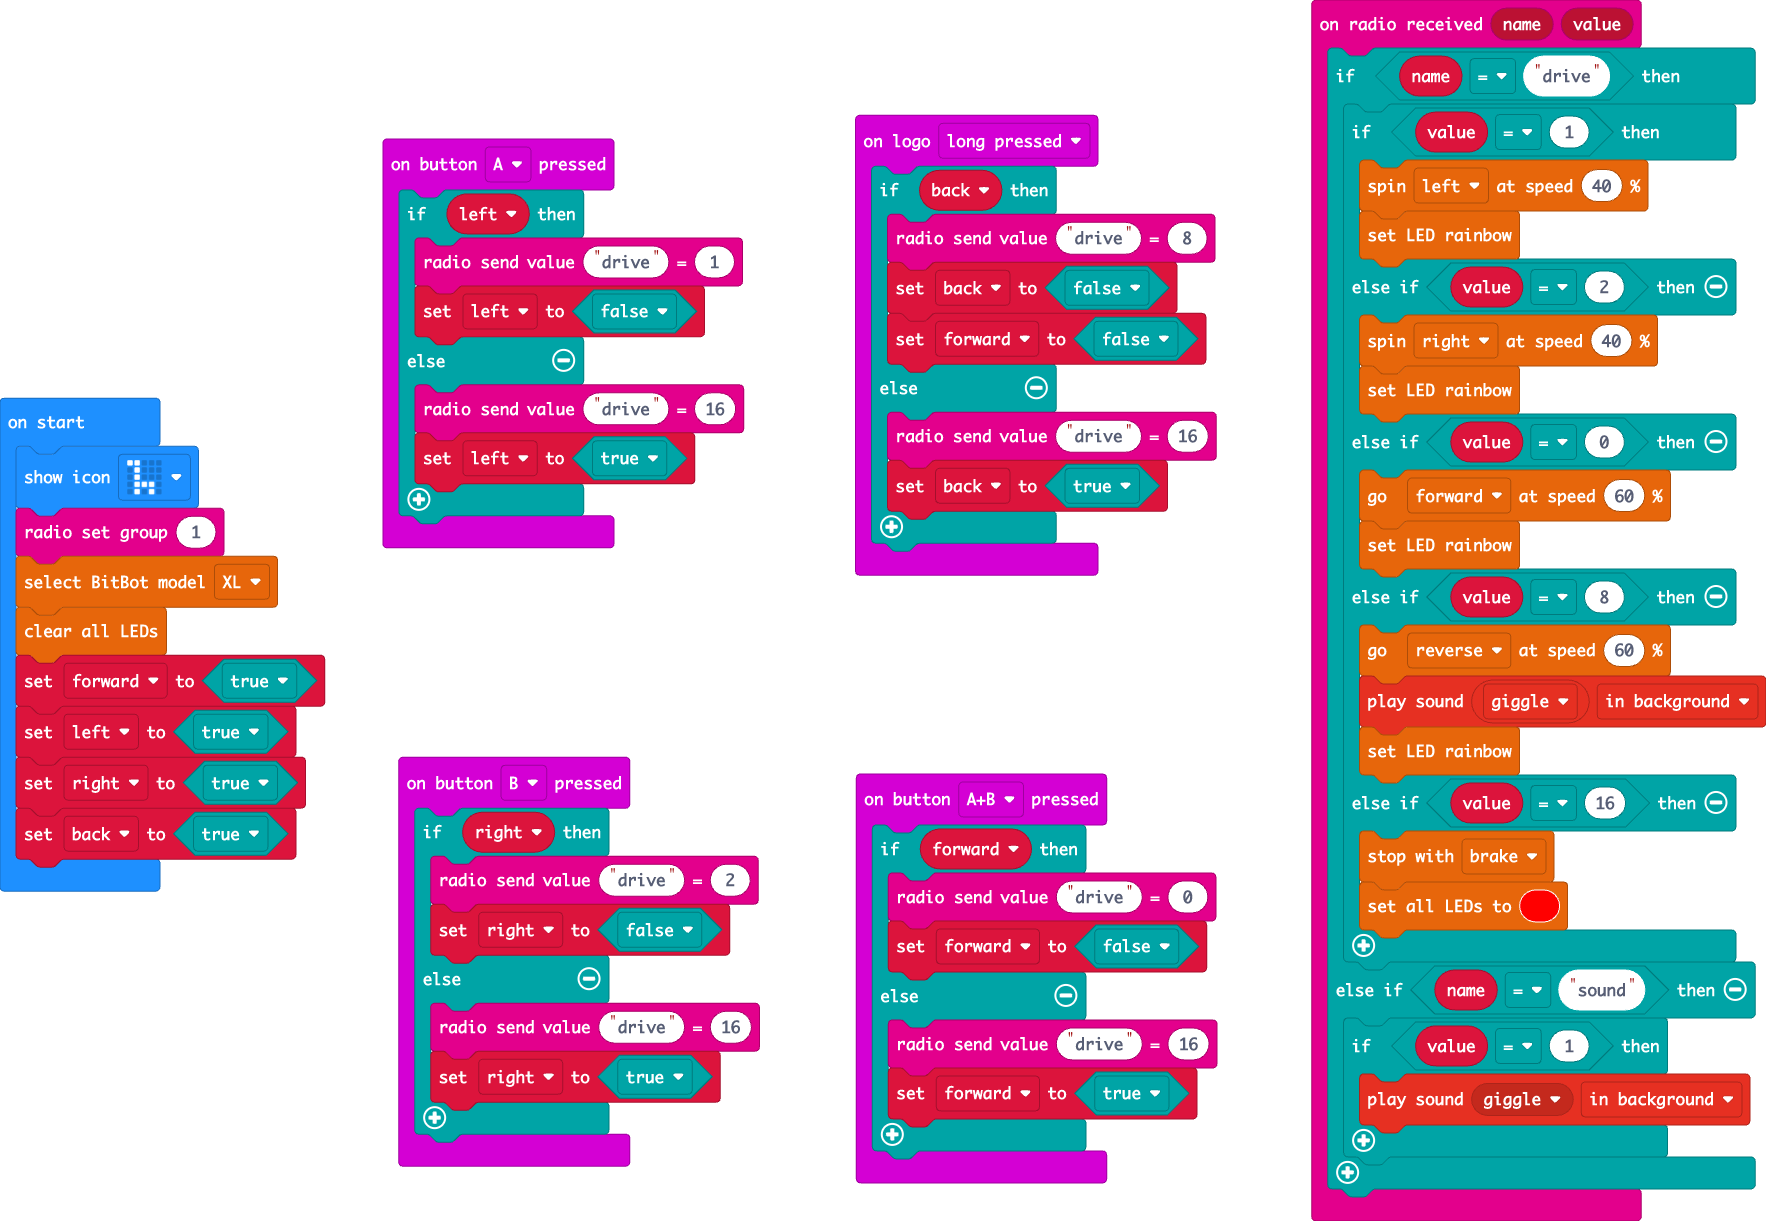
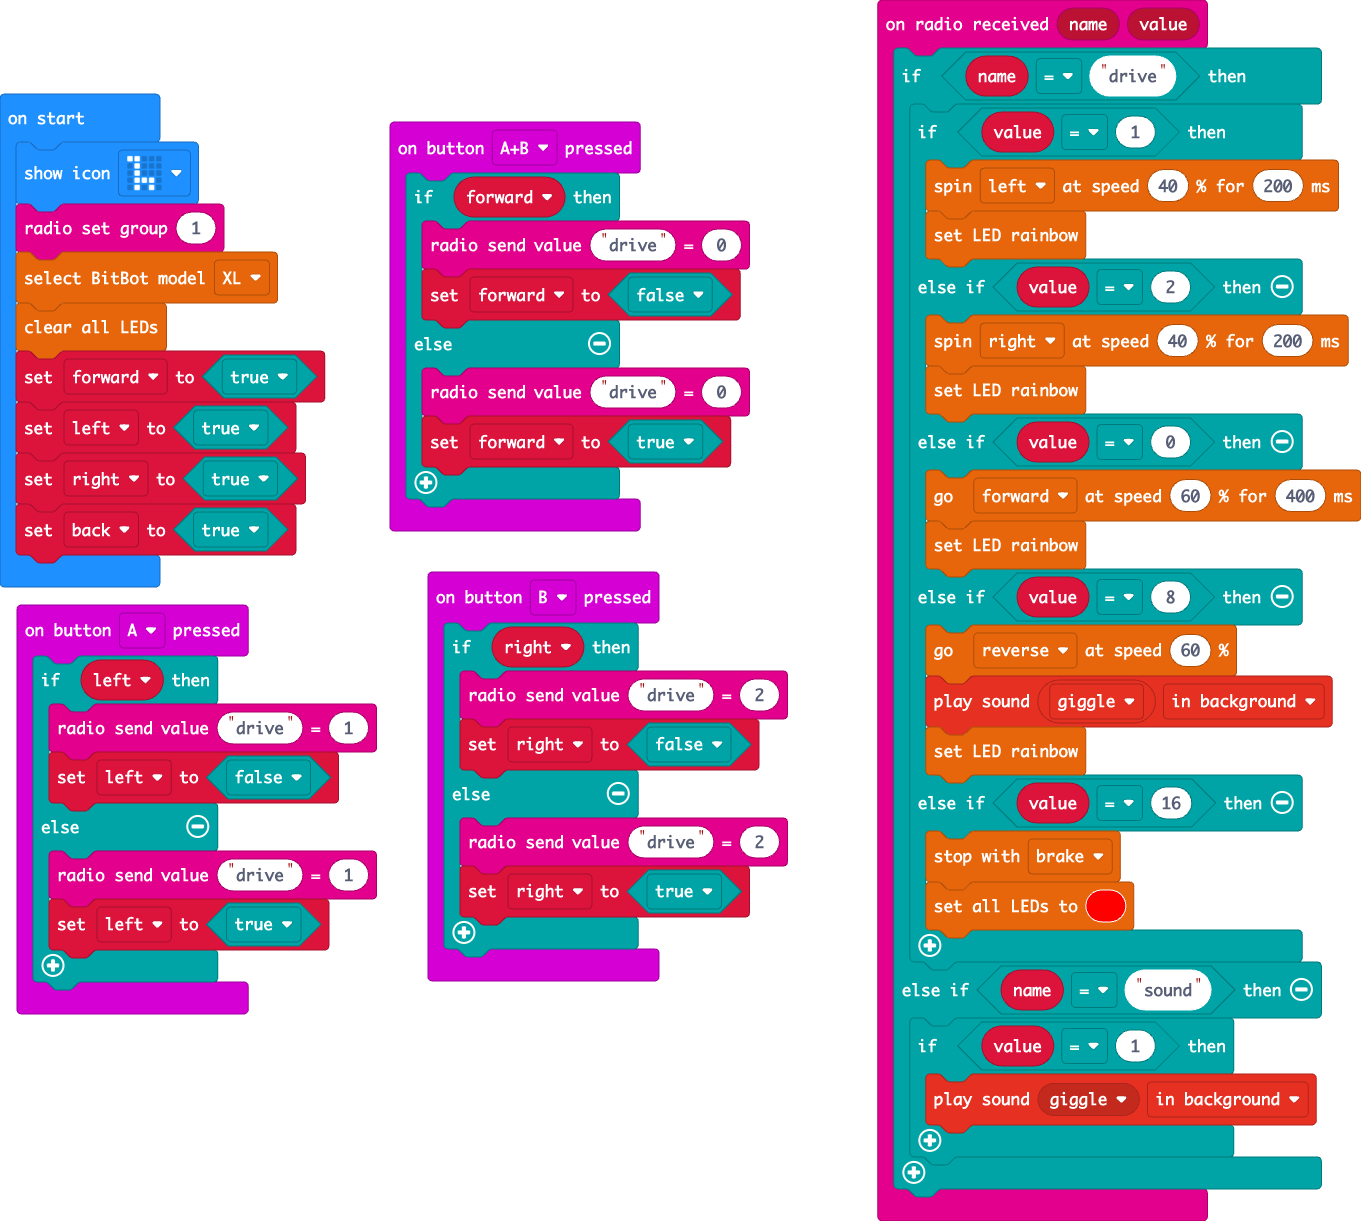
Update main.blocks, main.ts

diff --git a/main.ts b/main.ts
@@ -1,19 +1,9 @@
-input.onLogoEvent(TouchButtonEvent.LongPressed, function () {
-    if (back) {
-        radio.sendValue("drive", 8)
-        back = false
-        forward = false
-    } else {
-        radio.sendValue("drive", 16)
-        back = true
-    }
-})
 input.onButtonPressed(Button.A, function () {
     if (left) {
         radio.sendValue("drive", 1)
         left = false
     } else {
-        radio.sendValue("drive", 16)
+        radio.sendValue("drive", 1)
         left = true
     }
 })
@@ -22,7 +12,7 @@ input.onButtonPressed(Button.AB, function () {
         radio.sendValue("drive", 0)
         forward = false
     } else {
-        radio.sendValue("drive", 16)
+        radio.sendValue("drive", 0)
         forward = true
     }
 })
@@ -31,20 +21,20 @@ input.onButtonPressed(Button.B, function () {
         radio.sendValue("drive", 2)
         right = false
     } else {
-        radio.sendValue("drive", 16)
+        radio.sendValue("drive", 2)
         right = true
     }
 })
 radio.onReceivedValue(function (name, value) {
     if (name == "drive") {
         if (value == 1) {
-            bitbot.rotate(BBRobotDirection.Left, 40)
+            bitbot.rotatems(BBRobotDirection.Left, 40, 200)
             bitbot.ledRainbow()
         } else if (value == 2) {
-            bitbot.rotate(BBRobotDirection.Right, 40)
+            bitbot.rotatems(BBRobotDirection.Right, 40, 200)
             bitbot.ledRainbow()
         } else if (value == 0) {
-            bitbot.go(BBDirection.Forward, 60)
+            bitbot.goms(BBDirection.Forward, 60, 400)
             bitbot.ledRainbow()
         } else if (value == 8) {
             bitbot.go(BBDirection.Reverse, 60)
@@ -60,7 +50,6 @@ radio.onReceivedValue(function (name, value) {
         }
     }
 })
-let back = false
 let right = false
 let left = false
 let forward = false
@@ -71,4 +60,4 @@ bitbot.ledClear()
 forward = true
 left = true
 right = true
-back = true
+let back = true
